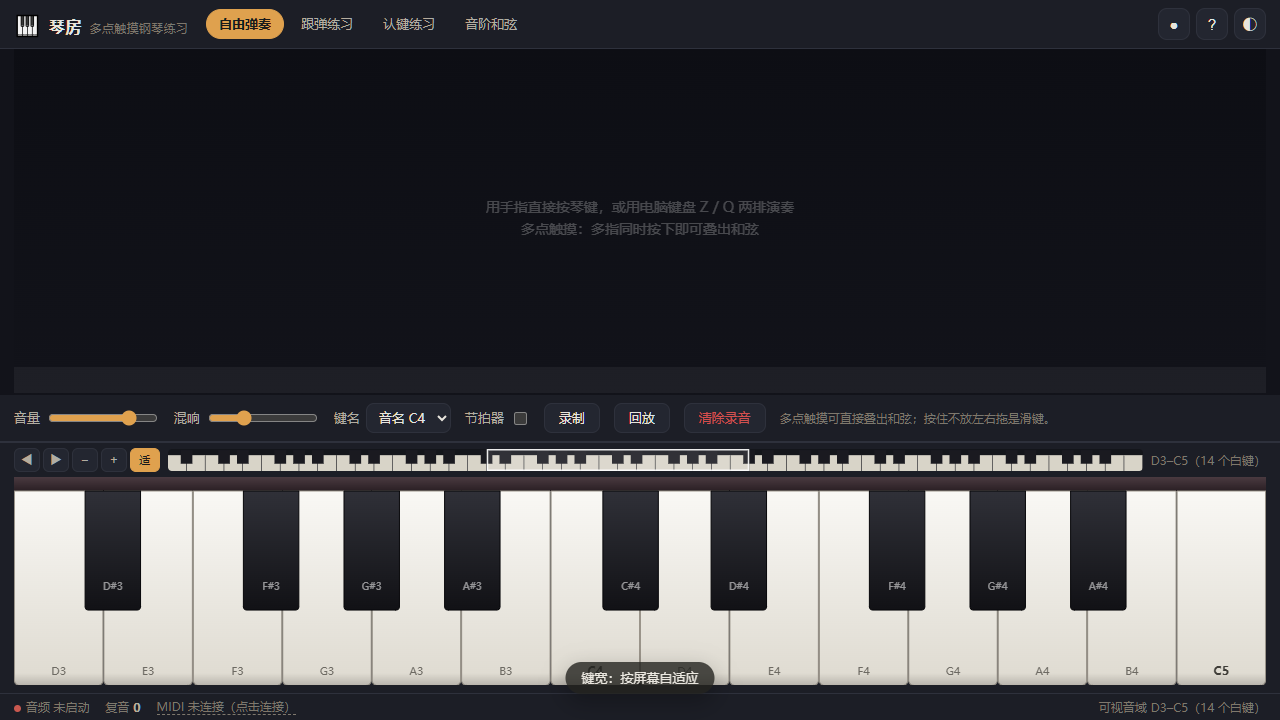
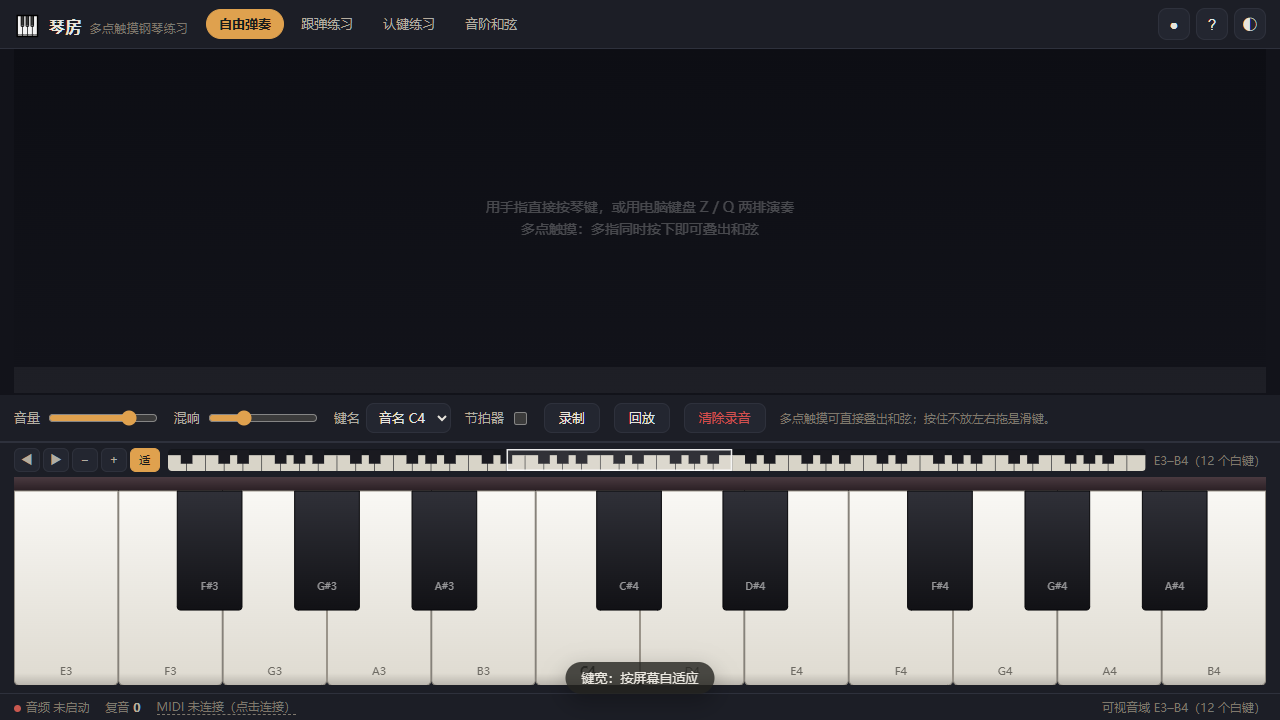
feat(piano): 最小白键宽提到 100px（正好是原来的一倍宽）
触摸屏上键太窄按不准：原来 1280 宽下 24 个白键挤在一起每个仅 52px，
现在按可用宽度反推白键数量，每个白键不窄于 100px。

各分辨率实测：
  1280×720 → 12 个白键 / 每个 104px（原来 24 个 / 52px，正好两倍）
  1920×1080 → 18 个白键 / 每个 105px
  800×600  →  7 个白键 / 每个 110px

selftest 215 项 / verify 61 项全绿。

diff --git a/piano/src/piano-view.js b/piano/src/piano-view.js
@@ -62,7 +62,7 @@
     songRange: null,
     mode: 'free',
     autoWidth: true,        // true = 白键数随屏幕宽度自适应
-    minKeyWidth: 88,        // 每个白键的最小像素宽度（触摸屏友好）
+    minKeyWidth: 100,       // 每个白键的最小像素宽度（触摸屏友好）
     minVisibleWhite: 1,     // 至少要显示多少个白键（跟弹时曲谱要求的宽度）
     keysDirty: true,
     stageDirty: true,

diff --git a/piano/src/core.js b/piano/src/core.js
@@ -140,7 +140,7 @@
    * 触摸屏上键太窄很难按，这是默认视窗的依据。
    */
   function fitWhiteCount(availableWidth, minKeyWidth) {
-    var min = Math.max(1, num(minKeyWidth, 88));
+    var min = Math.max(1, num(minKeyWidth, 100));
     return clamp(Math.floor(num(availableWidth, 800) / min), 7, ALL_WHITE.length);
   }
 
